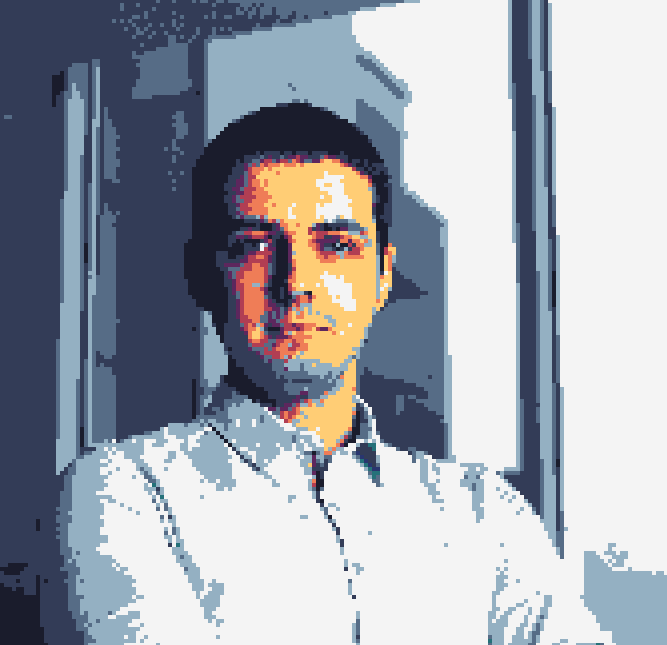
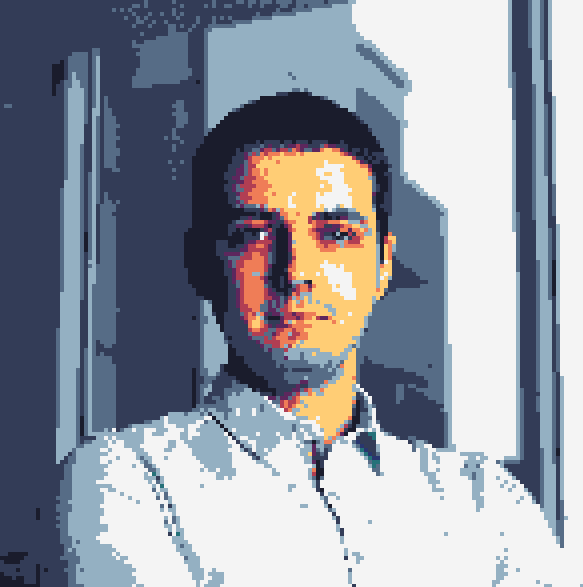
css upd

diff --git a/styles/index.css b/styles/index.css
@@ -11,6 +11,11 @@ img {
   max-width: 100%;
   max-height: 100%;
 }
+.center {
+  margin-left: auto;
+  margin-right: auto;
+  display: block;
+}
 a {
   text-decoration: none;
   color: #00ffe5;
@@ -29,8 +34,7 @@ a {
   height: 95vh;
   padding: 20px;
   display: flex;
-  min-width: 640px;
-  min-height: 480px;
+  min-width: 1050px;
 }
 .left-side {
   border-color: #00ffe5;

diff --git a/profile-photo.html b/profile-photo.html
@@ -82,7 +82,7 @@
         <div class="right-side">
           <div class="top-nav-quick-view">Quick View</div>
           <div class="right-output">
-     <img src="images/profile-photo_cr.png" alt="profile photo">
+     <img src="images/profile-photo_cr.png" alt="profile photo" class="center">
           </div>
         </div>
       </div>
